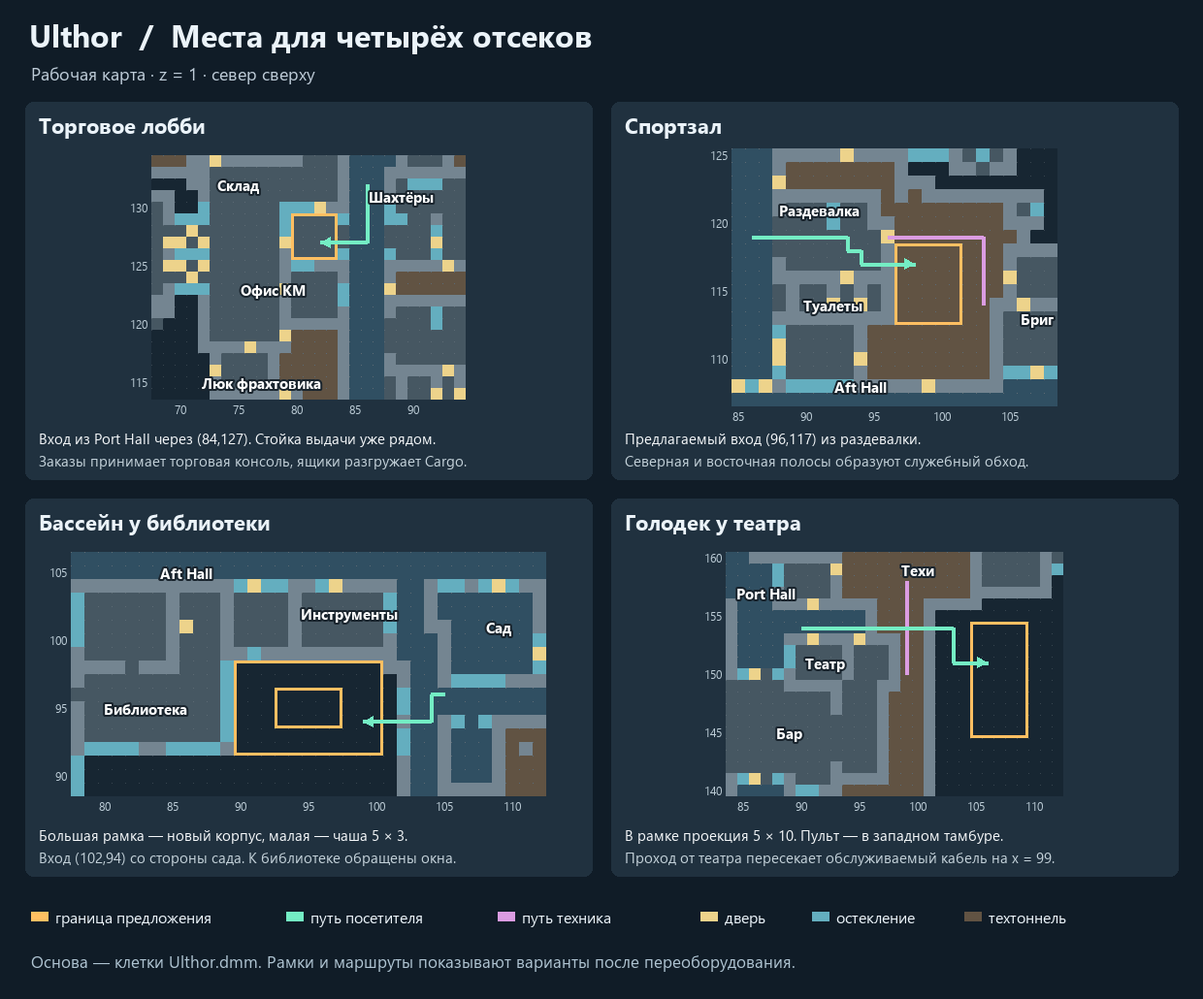
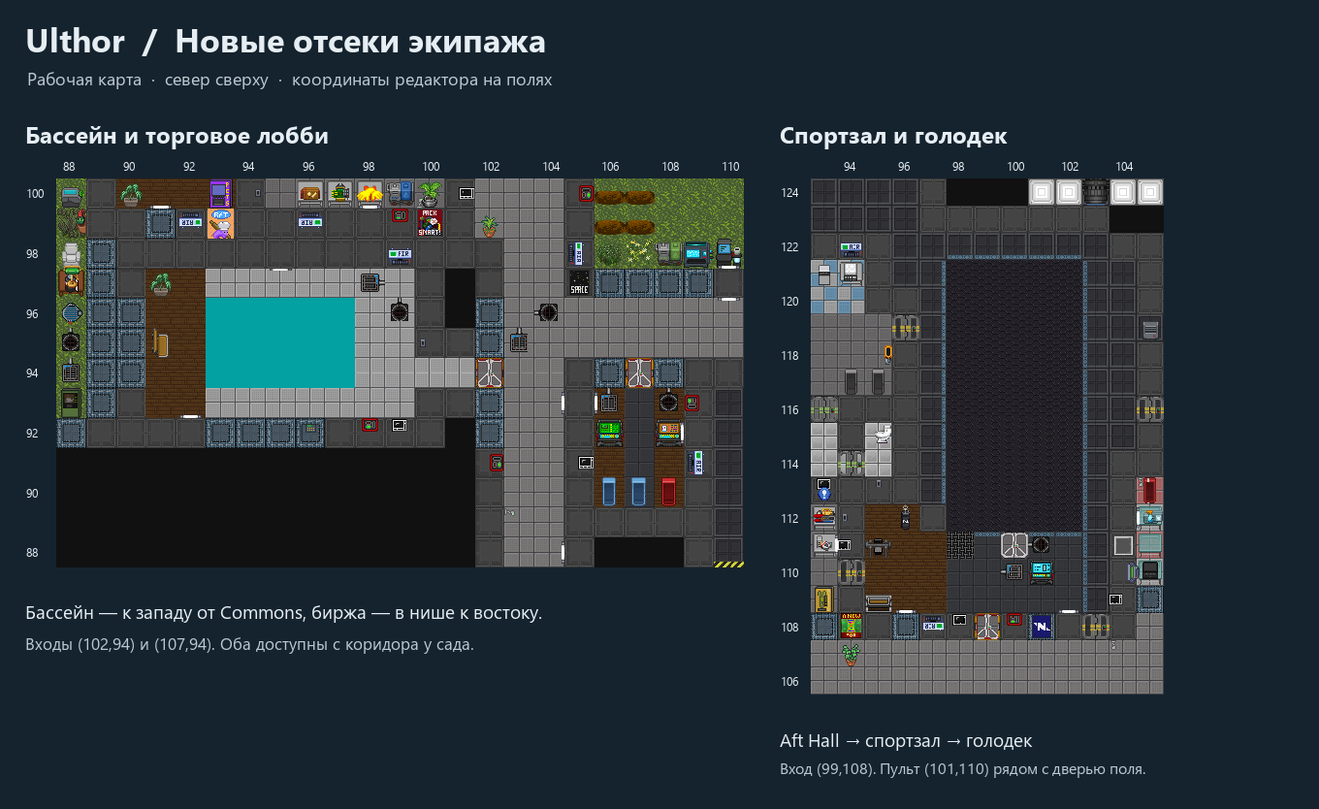
Record verified Ulthor rooms, public entrances and adjacent service routes

diff --git a/docs/ULTHOR_ROOM_PROPOSALS.md b/docs/ULTHOR_ROOM_PROPOSALS.md
@@ -1,40 +1,25 @@
-# Ulthor · четыре места для экипажа
+# Ulthor · торговое лобби, бассейн, спортзал и голодек
 
-Для состава в 20–30 человек я бы первым открыл торговое лобби у окна Cargo. У снабжения уже есть покупатели, прилавок и фрахтовый люк. Две консоли на стороне посетителей дадут экипажу повод приходить туда в течение смены. Следующим выбрал бы спортзал у раздевалки. Бассейн и голодек потребуют расширения корпуса, но у каждого есть естественный сосед и собственный повод туда идти.
+Четыре помещения построены на игровой карте. Координаты ниже указаны для z=1 в редакторе. На статическом рендере голодек показан до выбора программы.
 
-![Четыре фрагмента рабочей карты с будущими входами и контурами](ulthor_layout/room_proposals.png)
+![Помещения и соседние коридоры на рабочей карте Ulthor](ulthor_layout/room_proposals.png)
 
-Координаты включают края и относятся к z=1 в редакторе. Цвет основы показывает нынешние помещения. Стрелки и рамки показывают предложения. В игровую карту вошли только указатели и снятие канделябров.
+| Куда идти | Вход | Что видит экипаж |
+|---|---|---|
+| В торговое лобби | Из Commons к югу через (107,94) | Две консоли стоят друг напротив друга, центральный проход ведёт к трём аварийным шкафам. |
+| В бассейн | Из Commons на запад через (102,94) | Чаша 5 × 3 с сухим обходом. Западная площадка с лавкой выходит окнами к библиотеке. |
+| В спортзал | Из Aft Hall на север через (99,108) | Слева от входа деревянный настил с жимовой скамьёй и грушей. Справа расположен пульт голодека. |
+| В голодек | Из зала на север через (100,111) | За дверью проекционное поле 5 × 10 на (98–102,112–121). Пульт (101,110) и тренажёры находятся вне поля. |
 
-## Торговое лобби у окна выдачи
+В лобби биржевая консоль стоит на (106,92), торговая — на (108,92). Сотрудник с личным счётом может прийти с ID и купить акции или оформить заказ у торговца. Для ведомственного платежа действуют права соответствующего отдела. Физические заказы, как прежде, прибывают к фрахтовому люку Cargo (73,116), откуда их выдаёт снабжение. На мостике сохраняются оба командных терминала. [Биржа](../code/modules/economy/stock_market/stock_console.dm) · [Торговля](../code/modules/economy/trade/trade_console.dm) · [Доставка](../code/modules/economy/trade/freighter.dm)
 
-**x=80–83, y=126–129.** Это уже общедоступный карман на западной стороне Port Hall, напротив шахтёрской приёмной. Входы с востока на (84,127–128) открыты. С севера — раздвижное окно Cargo Bay Desk на (82,130), с запада — дверь Cargo Office (79,127) с доступом. На юге стоят два стула, автомат и Merch Computer. Публичная консоль снабжения уже занимает (83,129).
+У бассейна слева дерево, справа светлая плитка. Чаша занимает (93–97,94–96), контроллер её температуры расположен на южном борту (96,93). Бассейн и биржа получили отдельные АПЦ, свет, сигнализацию, подачу и отвод воздуха. [Бассейн](../code/game/machinery/poolcontroller.dm)
 
-Поставить биржевую и торговую консоли вдоль южной стены на места стульев (80,126) и (81,126). Сиденья можно повернуть к залу в следующей нише. Из прохода будет виден ряд экранов, а перед окном останется место для покупателя и ящика. На (80,128) проходит патрульный маршрут. Под пятью клетками кармана проложены сегменты и развязка мусоропровода, кабель коридора подходит к (84,128). Существующую зону Cargo можно использовать для питания терминалов.
+В спортзале жимовая скамья стоит на (95,111), груша — на (96,112). Со стороны Aft Hall через окна видно, занят ли зал. Голодек использует общие сценарии станции. Северный и боковые проходы вокруг поля оставлены техникам. Из Aft Hall они входят через прежний служебный шлюз, перенесённый на (103,108). От него можно дойти до подхода к бригу, технического входа у раздевалки и северной части тоннеля. Питание и линии вентиляции заведены в зал, поле сообщается с ним через решётку. [Снаряды](../code/modules/ruins/objects_and_mobs/gym.dm) · [Голодек](../code/game/machinery/computer/HolodeckControl.dm)
 
-**Пример смены.** Инженер подходит с ID и покупает у прибывшего торговца за личные кредиты. Начальник с соответствующим доступом может выбрать бюджет отдела. Сделка с акциями меняет портфель сразу. Товарный заказ попадёт в ящик на следующем торговом фрахтовике. Его штатный док — (72,116), служебный люк Cargo — (73,116). Грузчик разгружает судно и передаёт ящик через приёмную. Личный замок сверяет имя на ID, для ведомственных покупок действуют доступы отдела, у Supply обычный ящик. Без сотрудника с доступом Cargo покупатель может оформить заказ, но для разгрузки потребуется помощь. Южный Trade Dock (104,83) обслуживает корабль Sol. Продажу товаров и печать накладной по-прежнему выполняет снабжение.
+## Проверка в раунде
 
-На мостике уже есть экземпляры обоих терминалов на (124,164) и (124,163). В лобби предлагаются дополнительные экземпляры. Резерв под отдельный зал с очередью — (96–101,109–112) у Aft Hall. Там 24 клетки техпола, семь с атмосферными трубами, две с кабелем, а на (98,109) стоит АПЦ южных техов. До окна выдачи отсюда дальше, и для новой двери придётся перестраивать границу техтоннеля. [Биржа](../code/modules/economy/stock_market/stock_console.dm) · [Торговая консоль](../code/modules/economy/trade/trade_console.dm) · [Оплата и замки](../code/modules/economy/trade/delivery.dm) · [Рейс фрахтовика](../code/modules/economy/trade/freighter.dm)
-
-## Спортзал за общей раздевалкой
-
-**x=97–101, y=113–118.** На Ulthor четыре дорожки стоят в бриге, силовой тренажёр (134,143) и баскетбольное кольцо (135,140) — в пермабриге. У гражданской раздевалки есть посетители, лавки можно поставить у шкафов. Путь из Port Hall идёт через открытый вход на (88,119). Для двери зала на (96,117) понадобится переставить шкафы с (94–95,117). Действующую техническую дверь (96,119) следует оставить за пределами зала.
-
-Внутри контура сейчас 30 клеток технического пола без мебели. Под восемью идут атмосферные трубы, под семью — мусоропровод. Магистраль проходит по x=99, поперечная ветка — по y=116. Предлагаю силовую станцию и грушу у противоположных стен, открытый центр для спарринга и съёмную плитку над сетями. Один персонаж тренируется и получает штатный эффект Exercised, второй может пользоваться грушей. За северной стеной сохранить весь ряд y=119, а на востоке — сервисные полосы x=102–103. Они соединяют существующую дверь с подходом к бригу. Для отдельной зоны понадобится АПЦ с ответвлением кабеля, под самим залом его сейчас нет. [Тренажёр и груша](../code/modules/ruins/objects_and_mobs/gym.dm) · [Дорожка-генератор](../code/modules/power/treadmill.dm)
-
-Другой кандидат для небольшой тренажёрной — ниша (84–89,191–193) к северу от спален. Все 18 клеток свободны от мебели, кабелей, атмосферных труб и мусоропровода. Но из общежития посетителю пришлось бы идти через северо-западные техи рядом с выходом к солнечным панелям. Для жилого крыла понадобятся отдельный гражданский подход и все сети с нуля. У раздевалки эти затраты ниже.
-
-## Бассейн с окнами в библиотеку
-
-**x=90–100, y=92–98.** Между восточными окнами библиотеки и коридором Commons лежит прямоугольник из 77 клеток космоса. Проём на (102,94) и короткий тамбур через (101,94) дадут посетителям вход со стороны сада. Из читального зала можно видеть воду через остекление, не прокладывая через него маршрут купающихся. Предлагаю чашу 5 × 3 на (93–97,94–96), обход по сухому борту и скамью у окна.
-
-У Ulthor сейчас нет водных тайлов бассейна и его контроллера. Для такого отсека подходит связка с Cyberiad — вода `/turf/simulated/floor/beach/water` и Pool Controller. Контроллер на восточном борту (98,95) охватит всю чашу при штатном радиусе пять. Он учитывает людей в воде и управляет температурой. Водопровод для наполнения этой механике не нужен. Герметичный корпус, питание, вентиляция и скруббер нужны самому помещению. Пара атмосферных магистралей есть на (103,96), ближайший кабель — на (102,100). Их придётся ответвить, а у входа сохранить проезд по коридору Commons. [Контроллер бассейна](../code/game/machinery/poolcontroller.dm) · [Водные тайлы](../code/game/turfs/simulated/floor/misc_floor.dm) · [Cyberiad](../_maps/map_files/cyberiad/cyberiad.dmm)
-
-## Голодек за театральным проходом
-
-**Поле x=105–109, y=145–154.** Здесь поместится площадка 5 × 10, как на Delta и Cyberiad. Сейчас это космос к востоку от бара и сцены. На Ulthor нет принимающей зоны `/area/holodeck/alphadeck` и управляющей консоли. Проекторные сценарии уже размечены на общей Admin Zone. Пульт находит принимающую зону и копирует туда выбранную сцену. Для выступления можно загрузить театр, после него — бокс или баскетбол. Пульт, места зрителей и их вещи стоит разместить в тамбуре за пределами сменяемого поля.
-
-Вход продолжает существующий театральный коридор от (95,154) на восток. Между стенами (96,154) и (101,154) проходит сервисный тоннель. На (99,154) под полом лежит его продольный кабель. Предлагаю оформить пересечение как небольшое фойе. Северная и южная двери по оси x=99 получат прежний технический доступ, между ними останется съёмный пол. Посетитель идёт прямо к пульту, техник может пройти вдоль кабеля. Корпус, питание АПЦ и отводы воздуха придётся строить. На театральной стороне рядом уже есть подача и скруббер на (95,154). Цена этого варианта — один контролируемый переход в техах. На западном торце Fore Hall подобная пристройка заняла бы подход к спасательной капсуле с доком (69,170). [Консоль и загрузка программ](../code/game/machinery/computer/HolodeckControl.dm) · [Общие шаблоны сцен](../_maps/map_files/generic/Admin_Zone.dmm) · [Delta](../_maps/map_files/Delta/delta.dmm)
+В изолированном раунде Ulthor прошли 25 серверных проверок. Четыре гражданские двери доступны посетителю, служебная на (103,108) требует доступ. Четыре АПЦ подключились к электросети, шесть атмосферных приборов — к трубам. Обе торговые консоли получили питание, торговый фрахтовик зарегистрировался. Контроллер бассейна нашёл 15 клеток воды и отследил вход и выход персонажа. На голодеке загрузилась баскетбольная площадка, затем контроллер переключил её на пустой корт. Ручную покупку с ID и отрисовку в клиенте эта проверка не охватывала.
 
 ## Настенные указатели
 

diff --git a/docs/GAMEPLAY.md b/docs/GAMEPLAY.md
@@ -32,6 +32,12 @@ ATMTALAST, особенно когда в журнале есть несколь
 можно получить. При правках карты проверяем доступность этого маршрута для
 игрока при неполном составе отделов.
 
+На Ulthor экипаж может торговать акциями и заказывать товары за кредиты
+в общедоступном лобби Commons у сада. Для получения физического заказа
+покупатель обращается в Cargo, куда приходит торговый фрахтовик.
+Напротив лобби находится бассейн у библиотеки. Из Aft Hall экипаж входит
+в спортзал, а из него — на голодек. [План и координаты помещений](ULTHOR_ROOM_PROPOSALS.md).
+
 ## Особые задачи от Рассказчика
 
 Штатная система дополнительных поручений Addition Goals на Ulthor отключена.
